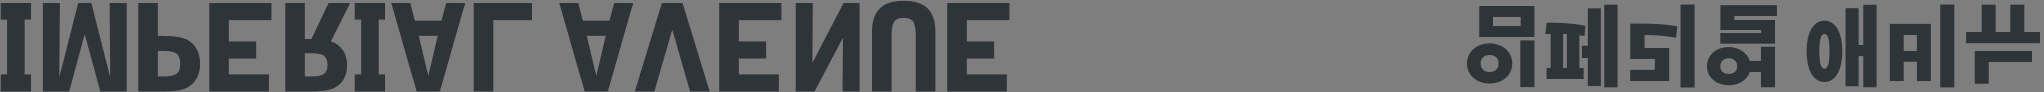
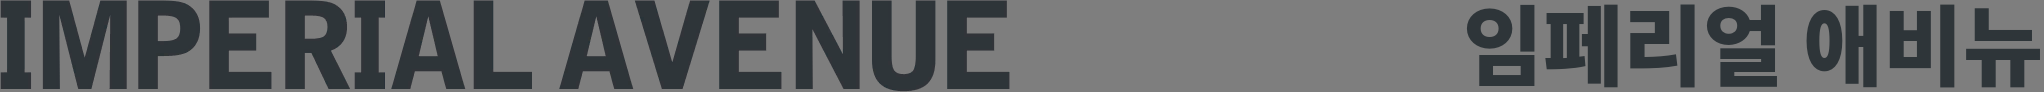
qa(c2): fix C358 q236 source/final readable FLIP-Y evidence orientation

diff --git a/localization/WORKLOG.md b/localization/WORKLOG.md
@@ -1,3 +1,7 @@
+## 2026-10-10 — C358 C2 evidence orientation correction (no new QA score)
+
+- Initial C358 source/candidate contact PNG publication displayed RAW vertically mirrored letters. Restored readable FLIP-Y orientation using ImageOps.flip before gray composition/scaling on all 12 exact DDS comparison images, regenerated SHA bindings in C358 controller/machine JSON. Candidate/source DDS and 14 native alpha/height metrics unchanged. No second C review, no C3 or game validation.
+
 ## 2026-10-10 14:00 KST — C358 C2 q236 independent native source-family visual REWORK
 
 - C2 EVEN independent reread verified exact source DDS SHA a1c7f7d6ca5d2440076e49477cefecbf5084b4188072f3427ff13e5da24bc518 and persisted candidate DDS SHA 9e2069ebe7eda210b2b9a0e39436724efc53932b3af7ba624b918056b24b6337; decoded full 2048x2048, RAW mirrored Y to readable orientation. Scanned 14/14 source vs new-current opaque alpha tight bounds: 7–9px less native height in all14 (conservation ceiling PASS), source type family much heavier/taller optically on selected 100%/50% rows (especially SUNNY BEACH / SNOW MOUNTAIN / SKYSCRAPERS / LEGEND); conditional glyph-dependent ink density checks support source-family underweight suspicion, visual comparison determines hard rejection. 12 NEW lossless panels for six focused rows.
